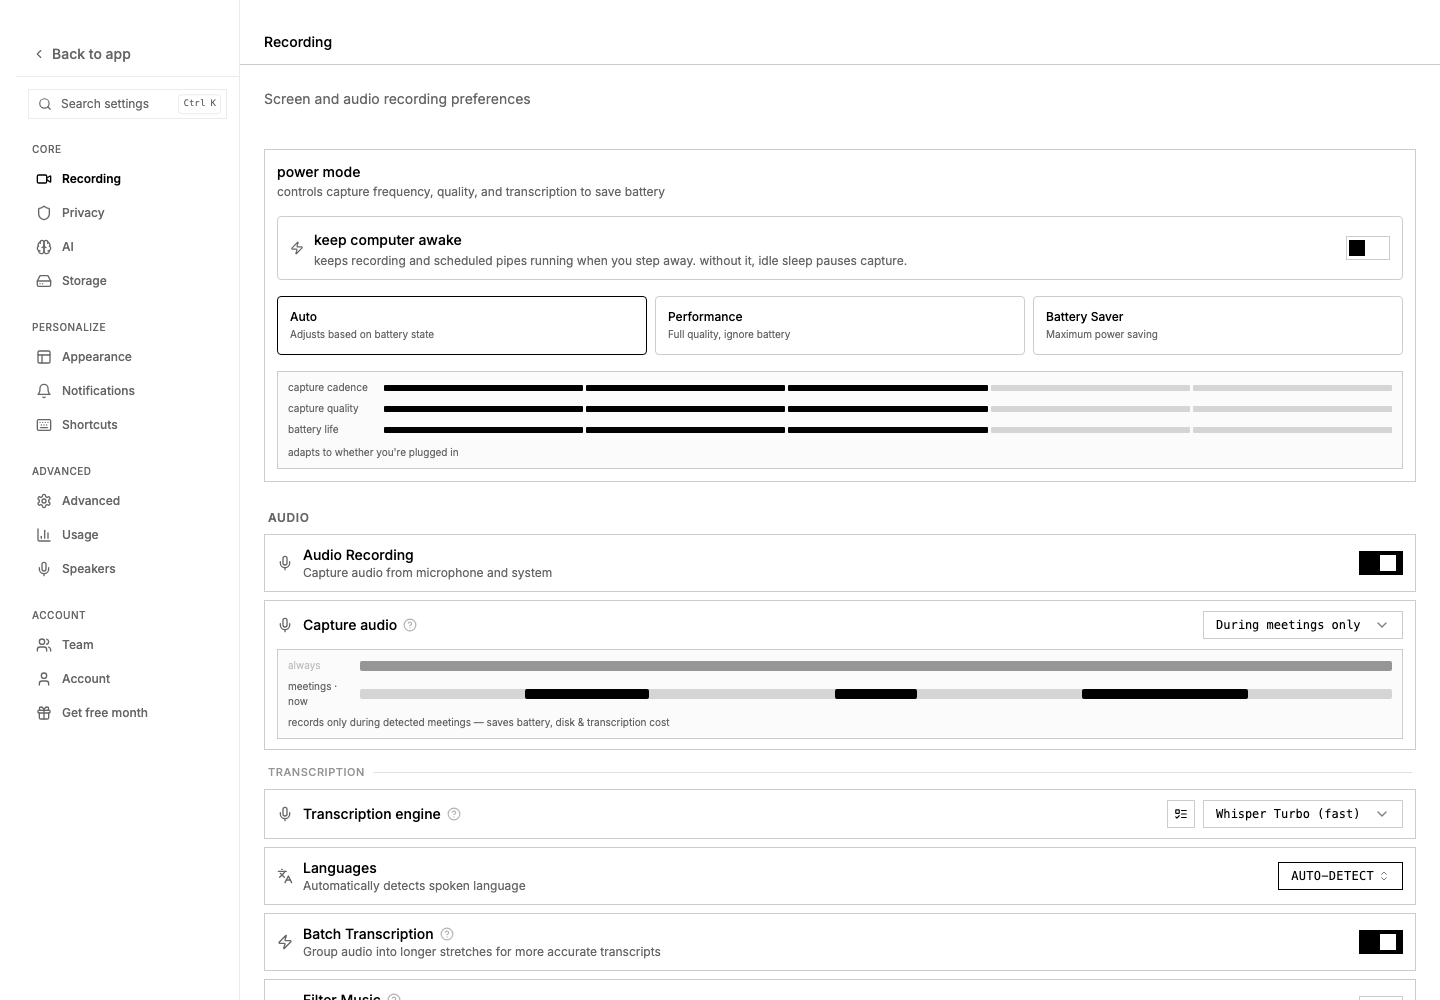
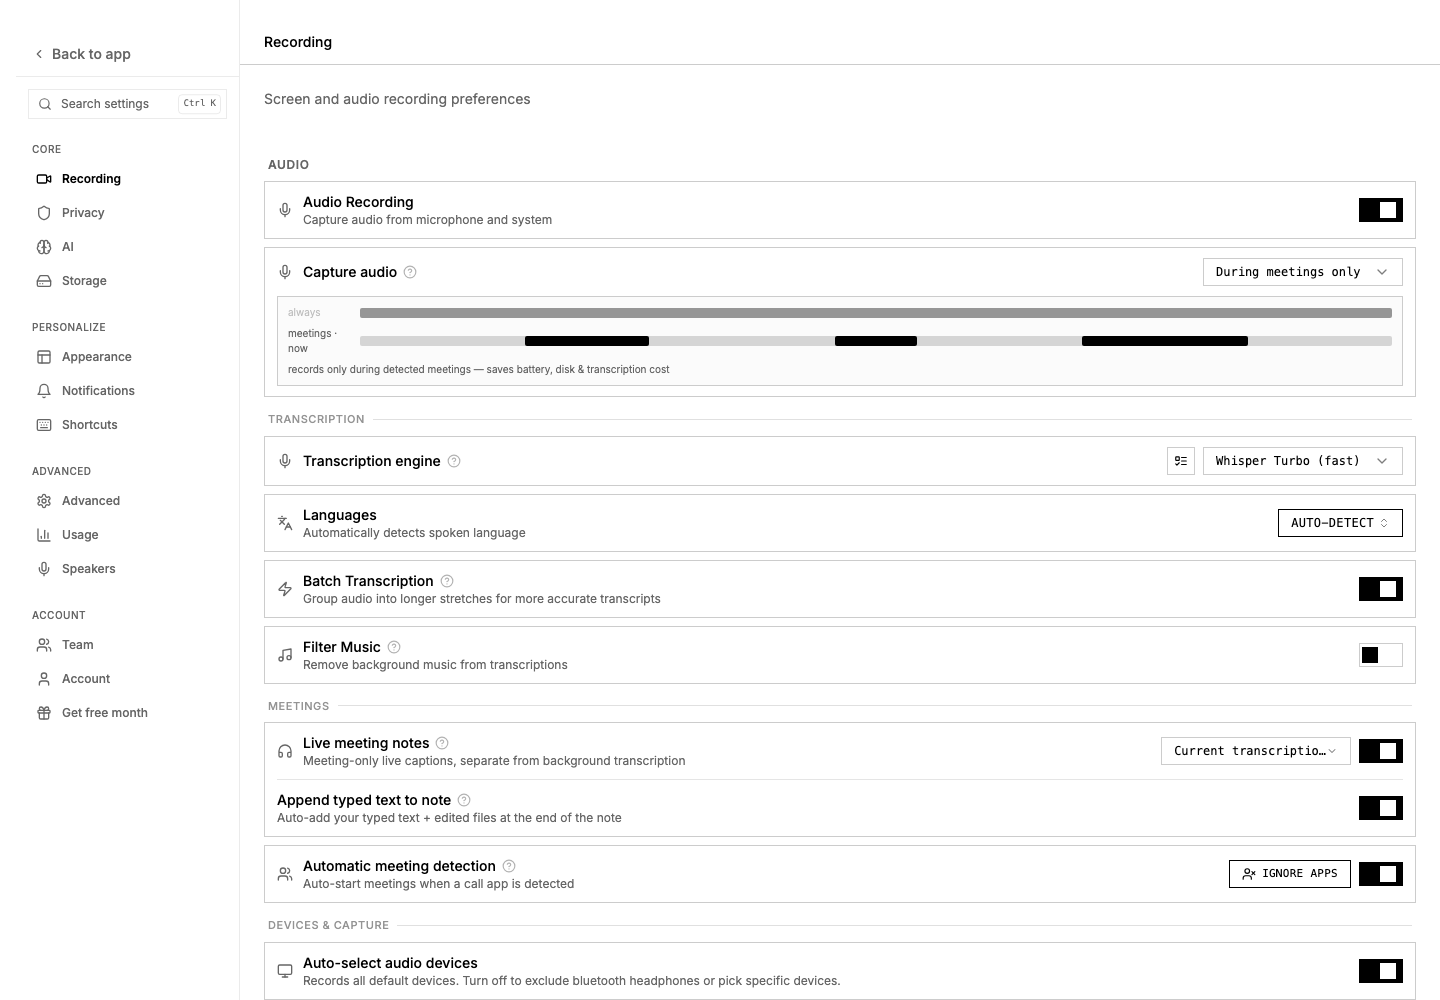
Move power settings into progressive disclosure

Changed region(s): [[0.1875, 0.155, 1.0, 1.0]]

diff --git a/apps/screenpipe-app-tauri/components/settings/recording-settings.tsx b/apps/screenpipe-app-tauri/components/settings/recording-settings.tsx
@@ -2660,13 +2660,6 @@ Your screen is a pipe. Everything you see, hear, and type flows through it. Scre
           )}
       </div>
 
-      {/* Battery Saver / Power Mode */}
-      <Card className="border-border bg-card">
-        <CardContent className="px-3 py-3">
-          <BatterySaverSection />
-        </CardContent>
-      </Card>
-
       {/* Audio */}
       <LockedSetting settingKey="audio_recording">
       <div className="space-y-2 pt-2">
@@ -4003,6 +3996,22 @@ Your screen is a pipe. Everything you see, hear, and type flows through it. Scre
           </CardContent>
         </Card>
       </div>
+
+      {/* Power and battery are important but infrequent decisions. Keep them
+          in Recording for discoverability/search, but defer the full control
+          surface until the user explicitly opens it. */}
+      <details className="border border-border bg-card rounded">
+        <summary className="flex cursor-pointer list-none items-center gap-2 px-3 py-2.5 [&::-webkit-details-marker]:hidden">
+          <Zap className="h-4 w-4 shrink-0 text-muted-foreground" />
+          <div>
+            <h2 className="text-sm font-medium text-foreground">Power &amp; battery</h2>
+            <p className="text-xs text-muted-foreground">Battery-aware capture and keep-awake behavior</p>
+          </div>
+        </summary>
+        <div className="border-t border-border px-3 py-3">
+          <BatterySaverSection />
+        </div>
+      </details>
 
       {/* Voice Training Dialog */}
       <Dialog open={voiceTraining.dialogOpen} onOpenChange={(open) => {

diff --git a/apps/screenpipe-app-tauri/components/settings/battery-saver-section.tsx b/apps/screenpipe-app-tauri/components/settings/battery-saver-section.tsx
@@ -17,7 +17,7 @@ import { PowerModePreview } from "./setting-previews";
 
 /** Settings search index for this section. Co-located with the component so adding a field here means updating one file. See `SettingsField` in `./settings-search` for the schema. */
 export const searchIndex: SettingsField[] = [
-  { label: "Power mode", keywords: ["battery", "performance", "saver"] },
+  { label: "Power & battery", keywords: ["power", "battery", "performance", "saver"] },
   { label: "Keep computer awake", keywords: ["sleep", "awake", "power"] },
 ];
 
@@ -180,7 +180,7 @@ export function BatterySaverSection() {
     <div className="space-y-4">
       <div className="flex items-center justify-between">
         <div>
-          <h3 className="text-sm font-medium text-foreground">power mode</h3>
+          <h3 className="text-sm font-medium text-foreground">power &amp; battery</h3>
           <p className="text-xs text-muted-foreground mt-0.5">
             controls capture frequency, quality, and transcription to save battery
           </p>